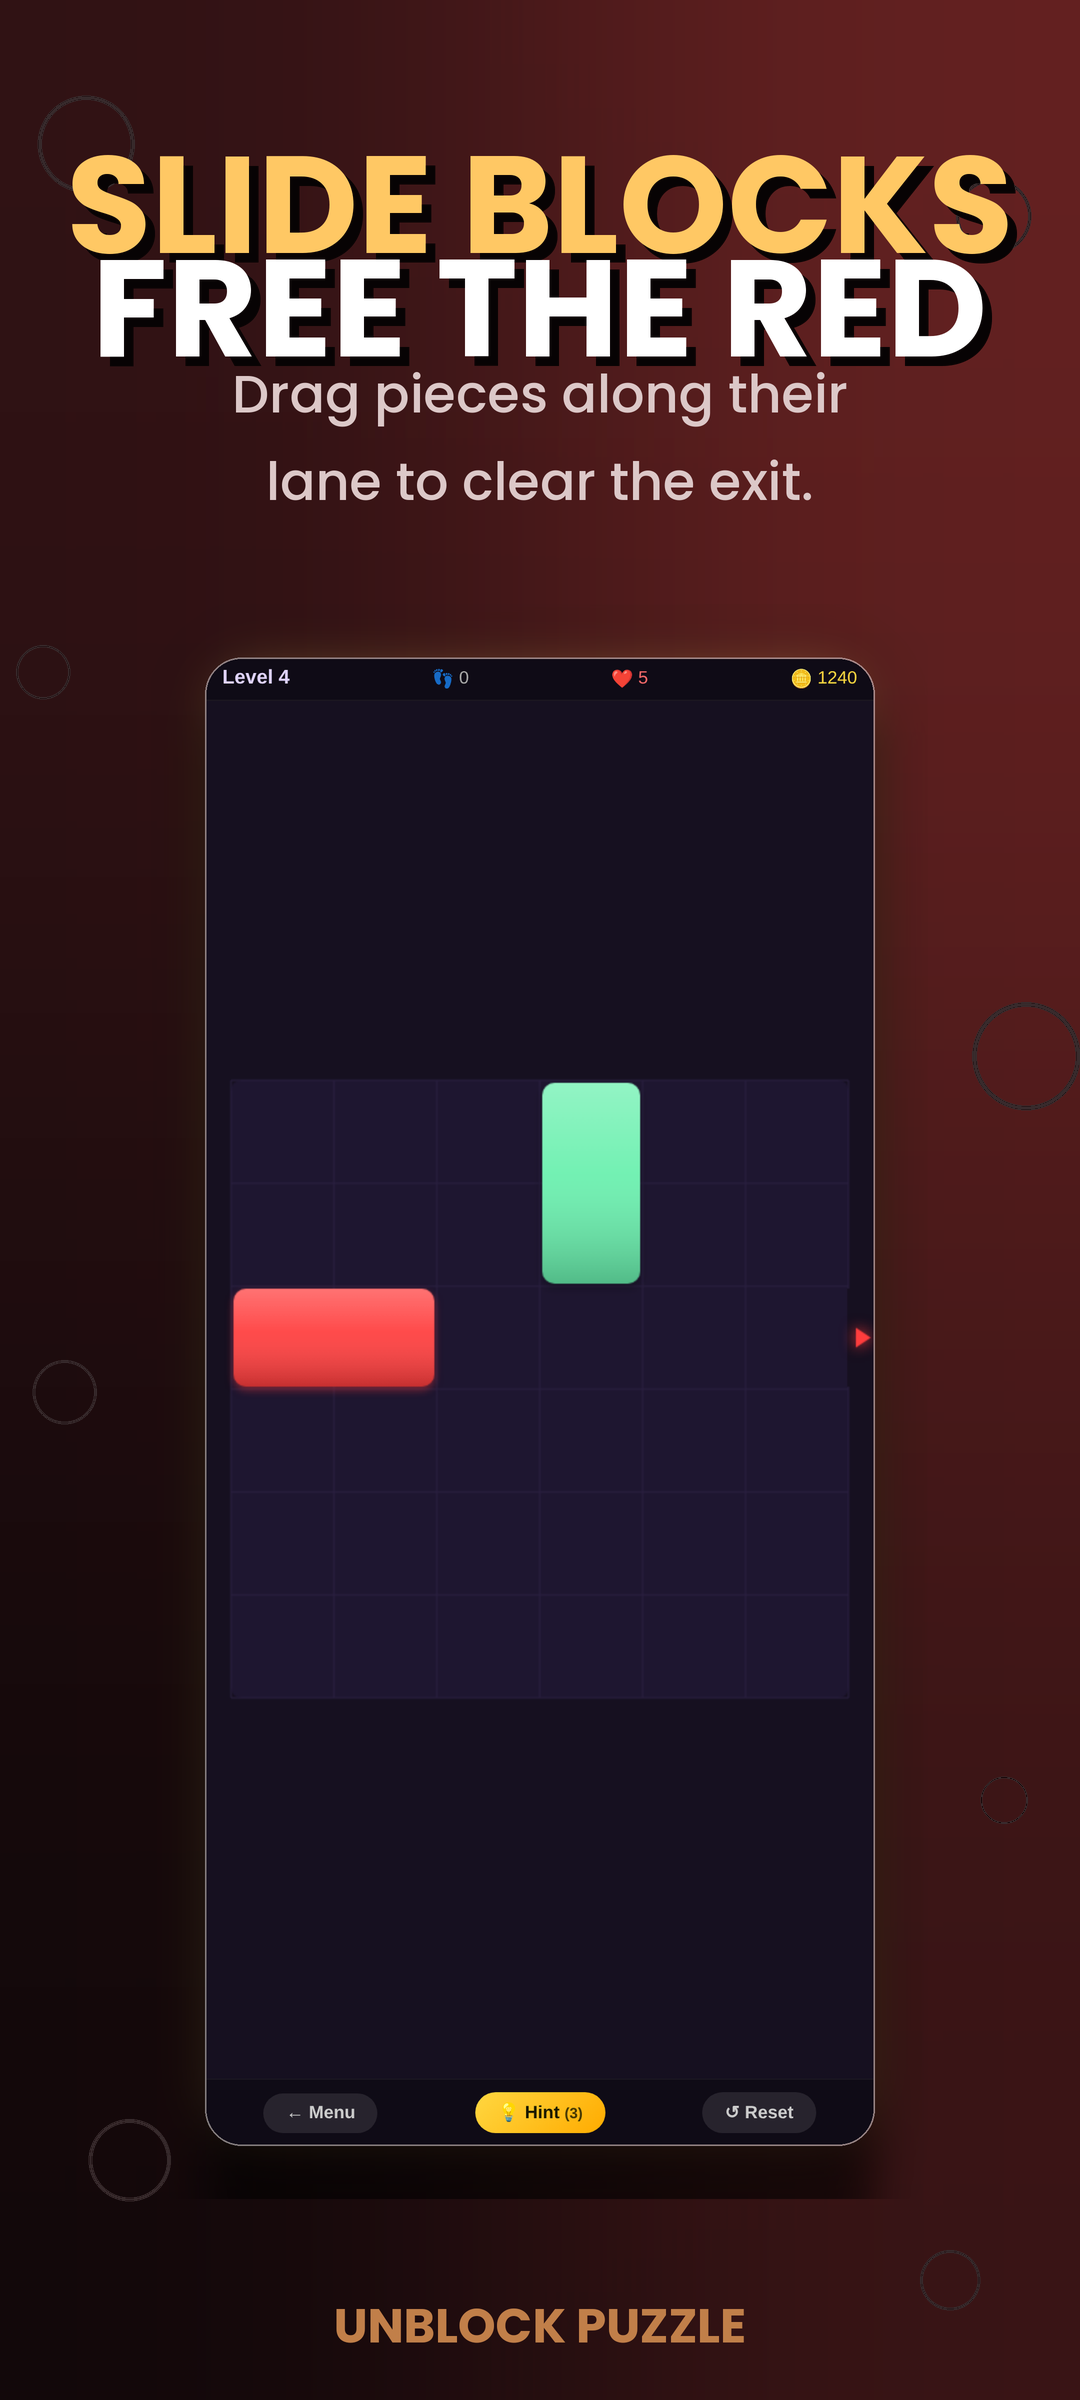
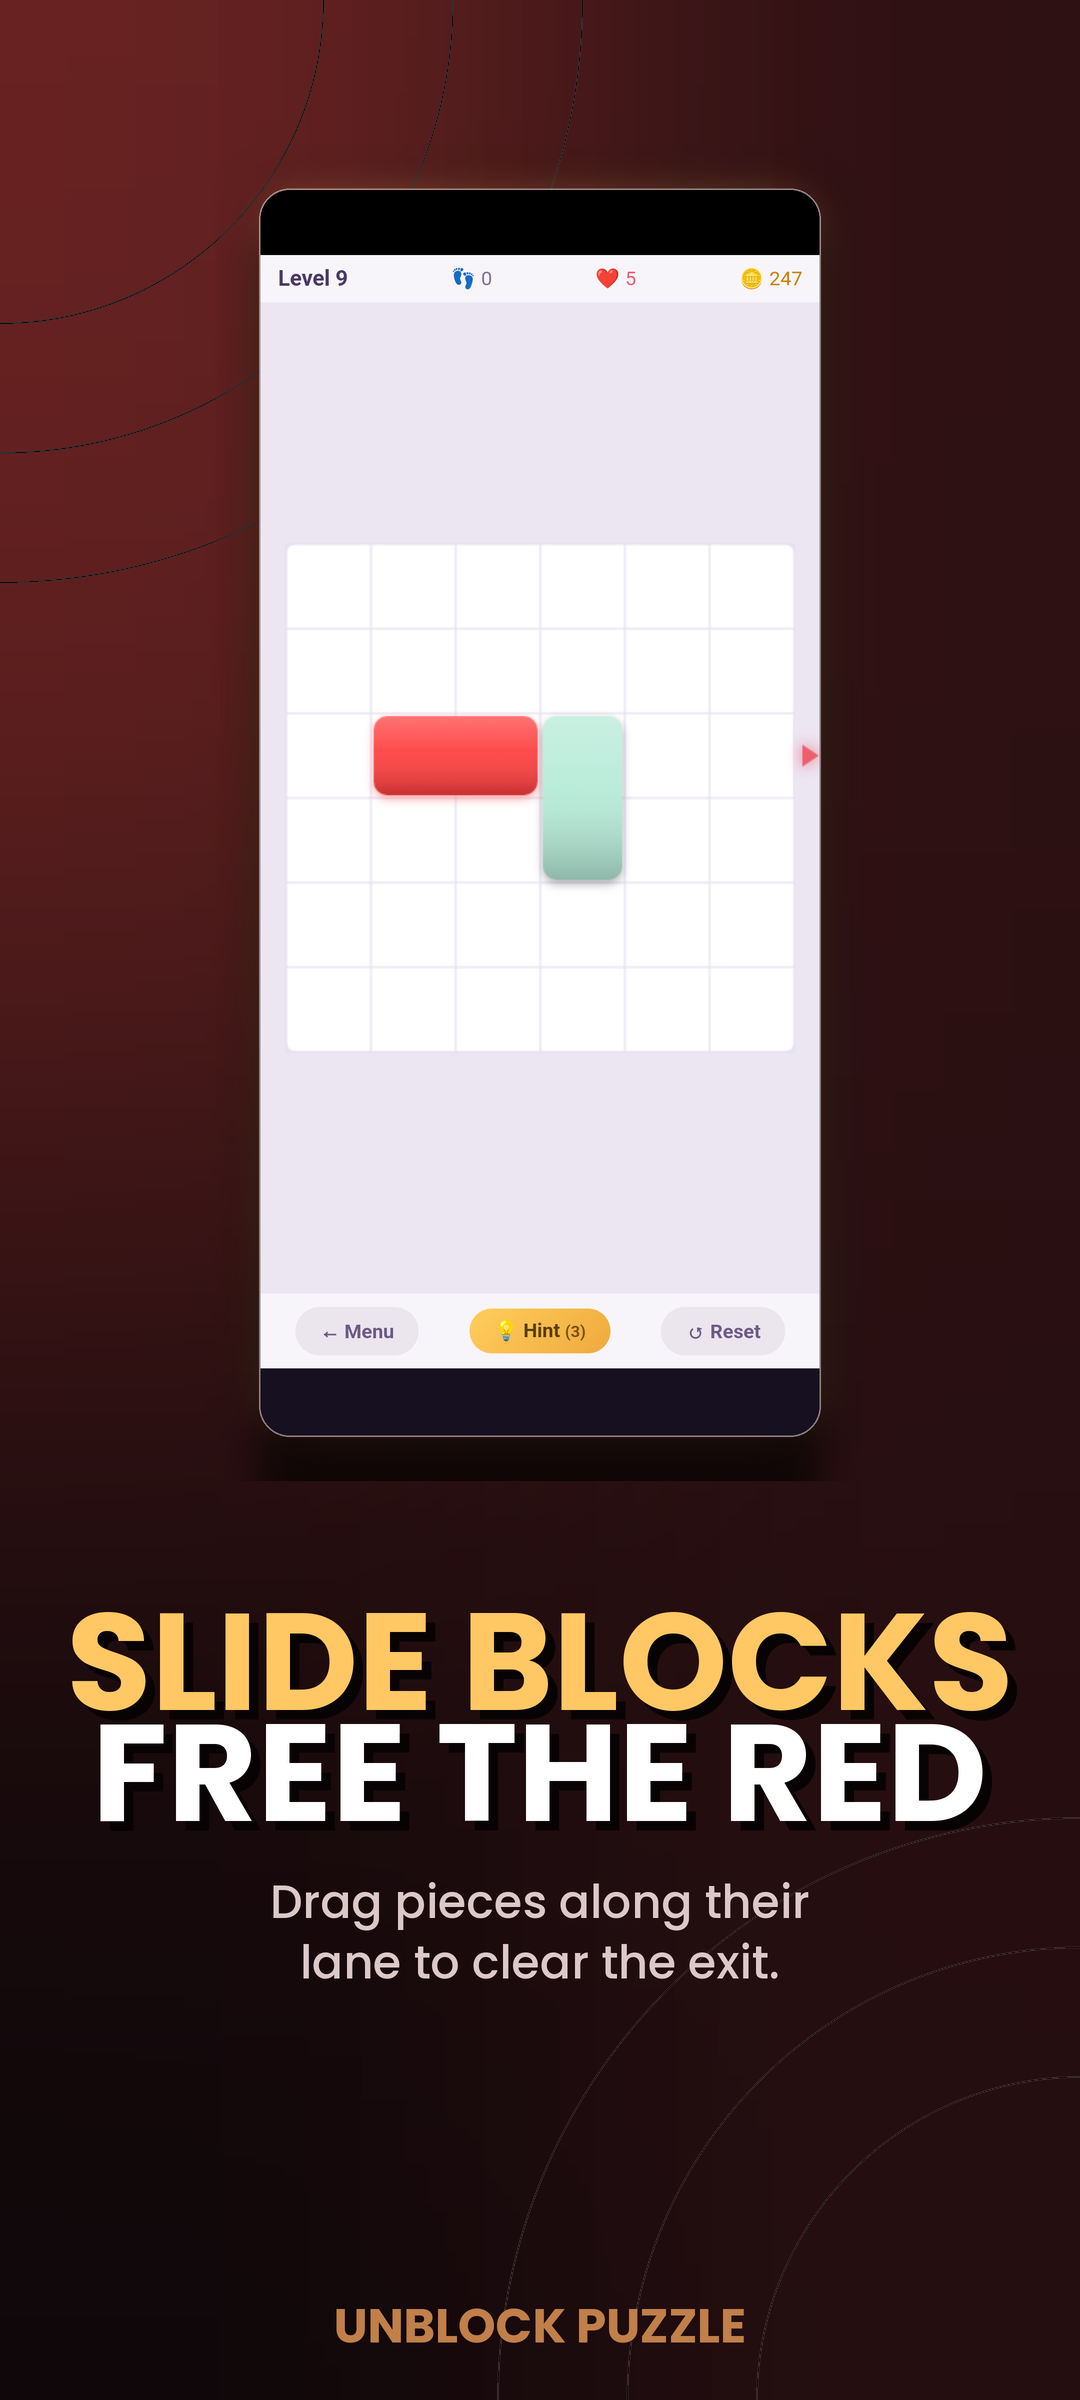
UnblockPuzzle: regenerate screenshots showcasing all themes
Re-captures all 18 store screenshots (phone + tablet 7"/10") against
the new light theme, cycling all 6 block themes and both UI themes
across the slots. Fixes three capture_screenshots.py bugs that broke
JS-driven capture: the force-stop/relaunch race, picking the AdMob
ad-iframe CDP page over the game page, and the unhandled Android 13
notification-permission dialog. Documents the all-themes screenshot
rule in CLAUDE.md and SHIP_GAME.md.

diff --git a/scripts/capture_screenshots.py b/scripts/capture_screenshots.py
@@ -285,9 +285,23 @@ def force_stop_and_launch(package_name, readiness_expr=None):
     undefined. The explicit navigate forces CDP to bind to the real page.
     """
     run(["adb", "shell", "am", "force-stop", package_name], check=False)
-    time.sleep(0.6)
-    run(["adb", "shell", "am", "start", "-n",
-         f"{package_name}/.MainActivity"], check=False)
+    # force-stop is async — wait until the process is actually gone, else
+    # the launch below races the dying instance ("intent delivered to
+    # currently running top-most instance") and the app never comes up.
+    for _ in range(25):
+        if not _get_app_pid(package_name):
+            break
+        time.sleep(0.2)
+    time.sleep(0.4)
+    # Cold-start via the LAUNCHER intent. `am start -n pkg/.MainActivity`
+    # proved unreliable on some emulators (delivers to a stale task record
+    # and the activity self-finishes); monkey's LAUNCHER launch is robust.
+    run(["adb", "shell", "monkey", "-p", package_name,
+         "-c", "android.intent.category.LAUNCHER", "1"], check=False)
+    for _ in range(25):
+        if _get_app_pid(package_name):
+            break
+        time.sleep(0.2)
     time.sleep(3.5)  # let MainActivity.loadUrl finish; skip _force_cdp_navigate
     # The MainActivity already loadUrl()s file:///android_asset/game.html;
     # forcing another Page.navigate via CDP can leave the icon row in a
@@ -376,7 +390,15 @@ def _devtools_ws_url(package_name):
             req = urllib.request.Request("http://127.0.0.1:9229/json")
             with urllib.request.urlopen(req, timeout=2) as resp:
                 pages = _json.loads(resp.read().decode("utf-8"))
-            for p in pages:
+            # Prefer the app's own WebView page (file:///android_asset/
+            # game.html) over AdMob/ad-network iframe pages, which also
+            # expose a CDP target and otherwise sort first.
+            def _is_game(pg):
+                u = pg.get("url") or ""
+                return ("android_asset" in u or "game.html" in u
+                        or u.startswith("file://"))
+            ordered = sorted(pages, key=lambda pg: 0 if _is_game(pg) else 1)
+            for p in ordered:
                 if p.get("type") in ("page", "webview") and p.get("webSocketDebuggerUrl"):
                     return p["webSocketDebuggerUrl"]
         except Exception:
@@ -556,6 +578,11 @@ def main():
     if not args.no_reinstall:
         if not install_apk(app_dir):
             sys.exit(1)
+
+    # Grant POST_NOTIFICATIONS so the Android 13+ runtime-permission
+    # dialog doesn't pop over the WebView and land in the screenshot.
+    run(["adb", "shell", "pm", "grant", package,
+         "android.permission.POST_NOTIFICATIONS"], check=False)
 
     taps = load_per_app_taps(app_dir, args.target) or DEFAULT_TAPS
     # If the per-app tap file has tablet_<N>_<slot> keys for this target,

diff --git a/docs/SHIP_GAME.md b/docs/SHIP_GAME.md
@@ -485,6 +485,17 @@ flag", QUALITY_PLAYBOOK §7.1):
 | 05 | Daily missions panel (3 active objectives) or stats screen |
 | 06 | A different mid-game board (different palette, different layout) |
 
+**Showcase every theme.** If the app has a theme system (block/tile
+color palettes and/or light-vs-dark UI themes), the screenshot set
+MUST display *all* of them — cycle a different theme through the board
+slots and include at least one shot of each UI theme, so the listing
+advertises the full visual range. This is how the shipped apps
+(WaterSortPuzzle, Nonogram, Puzzle2048) are configured: every
+`screenshot_taps.json` slot calls the theme switcher before
+navigating. Drive it from `<App>/test/screenshot_taps.json` via the
+app's theme hooks (`setActiveTheme`, `applyUITheme`, …) — never ship a
+screenshot set that only shows the default theme.
+
 These are starting points — the rule is "no menu, no shop, no
 more-games, no settings, no two duplicates," not a rigid template.
 Pick what shows the app at its best. `wrap_screenshots.py` wraps

diff --git a/CLAUDE.md b/CLAUDE.md
@@ -625,6 +625,13 @@ wait for the user. Do NOT write a "Known gaps" section and proceed.
   retroactively to WaterSortPuzzle/Nonogram/Puzzle2048 — their menu
   screenshots were removed 2026-05-20 (now 6 phone / 6 tablet-7 / 5
   tablet-10 gameplay slots); no more grandfathering of those three.
+- **Screenshot set that doesn't show every theme.** If the app has a
+  theme system (block/tile palettes and/or light-vs-dark UI themes),
+  the screenshots MUST showcase ALL of them — cycle a different theme
+  through the board slots and include at least one shot of each UI
+  theme. Configure it in `<App>/test/screenshot_taps.json` via the
+  app's theme hooks (`setActiveTheme` / `applyUITheme`), the same way
+  WaterSortPuzzle/Nonogram/Puzzle2048 do. See `SHIP_GAME.md` Step 3.3.
 - Phone, tablet 7", tablet 10" reusing same raw page, wrapper, or
   headline. **Each of the 3 surfaces = fully distinct listing**, AND
   every wrapped screenshot within a surface has unique raw + unique
